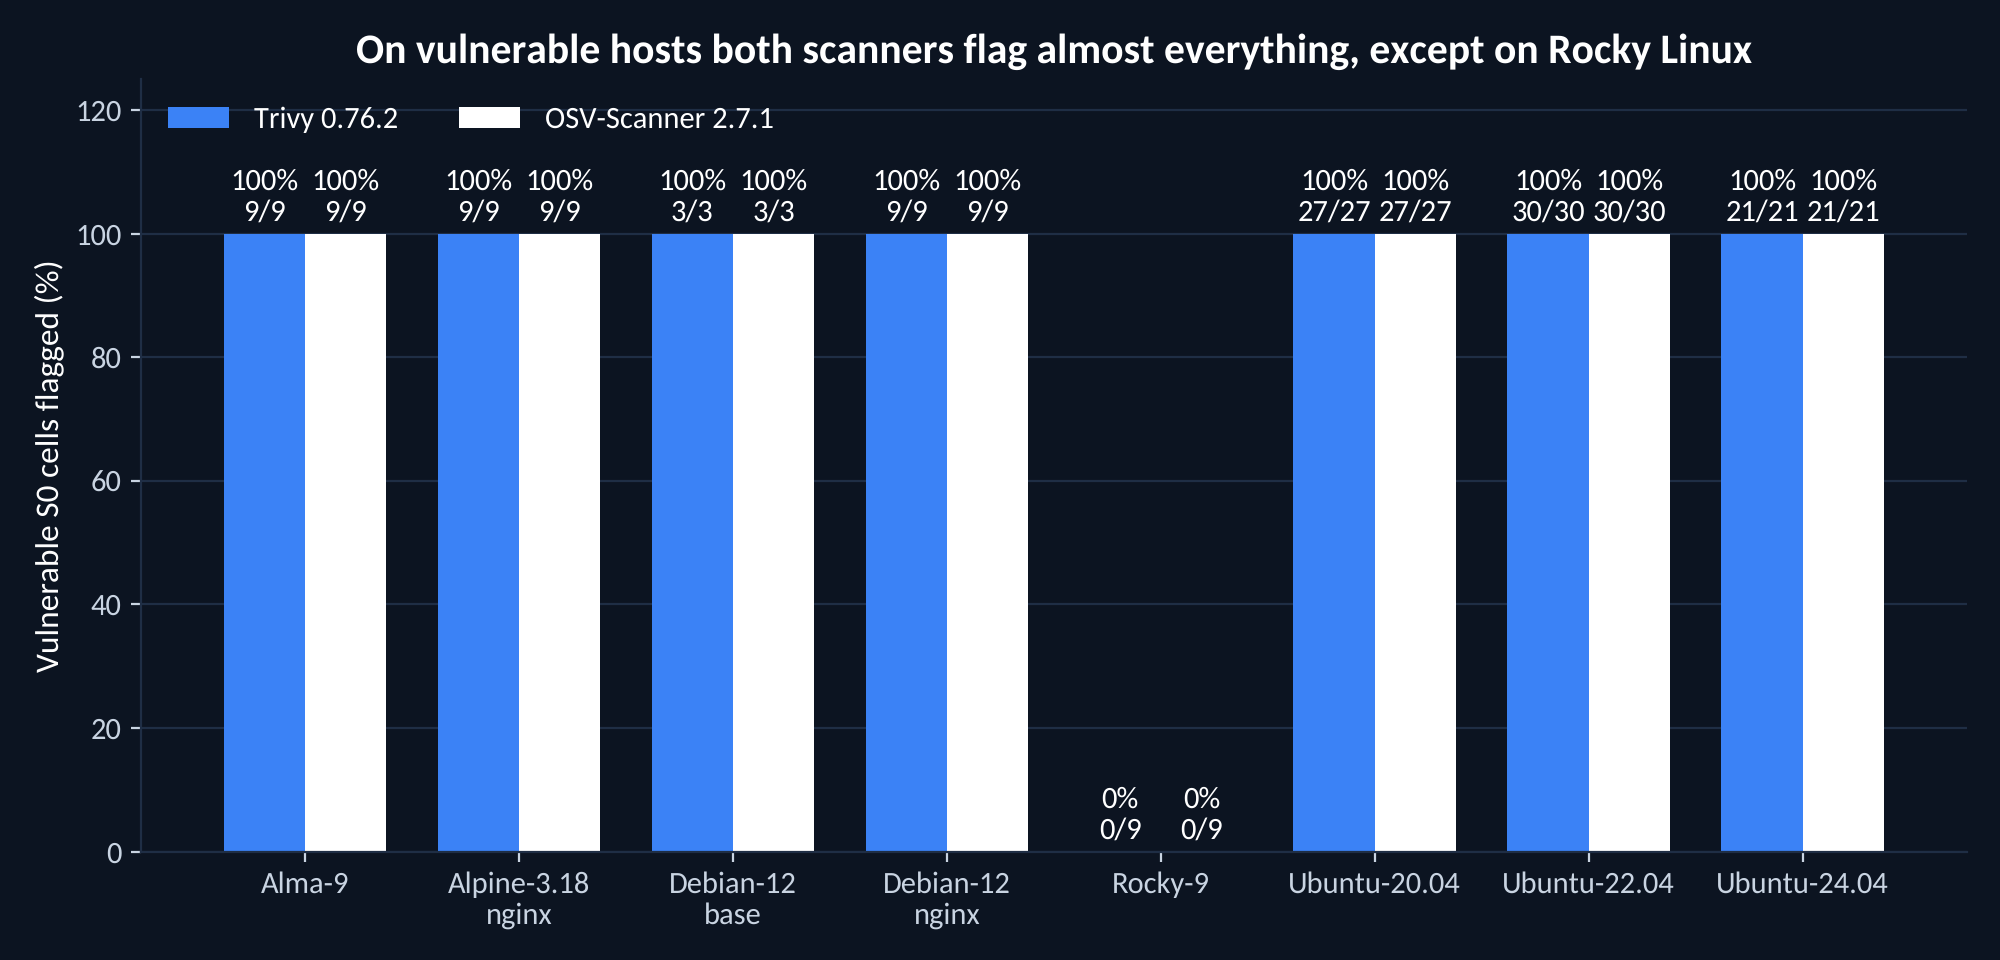
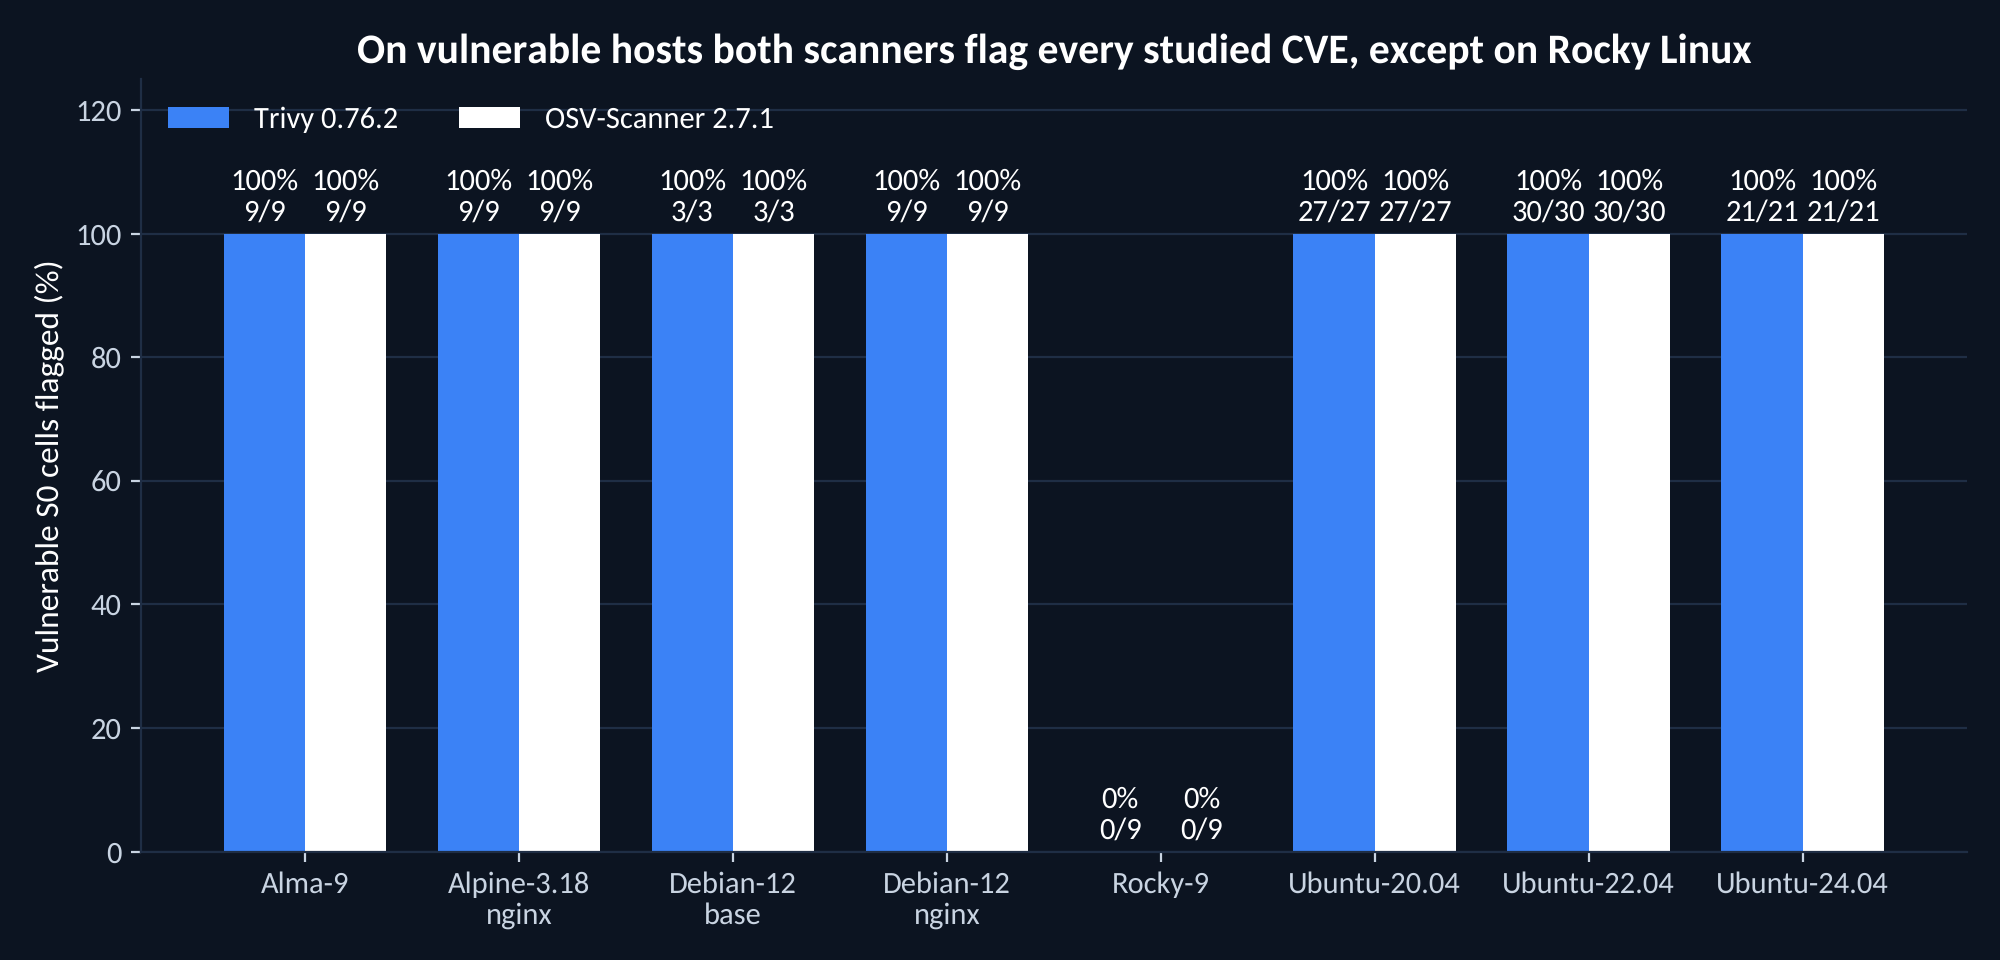
Chart titles; tables header wording

Changed region(s): [[0.186, 0.0312, 0.744, 0.0938], [0.775, 0.0312, 0.868, 0.0625]]

diff --git a/src/fixproof/report.py b/src/fixproof/report.py
@@ -72,7 +72,7 @@ def main():
     out: list[str] = ["# fixproof results", "",
                       f"{len(runs)} host builds ({len(runs) // max(1, len(repeats))} host states x {len(repeats)} repeats), "
                       f"{len(cves)} CVEs, {len(distros)} distro images, {len(unique_cells)} CVE x distro x state cells, "
-                      f"{len(cells)} verdicts. Generated by `fixproof report` from results/cells.csv.", ""]
+                      f"{len(cells)} verdicts. Written by `fixproof report` from results/cells.csv.", ""]
 
     # ---- headline: stale vulnerable code running, package already fixed
     stale = [r for r in sc_rows if r["truth"] == "vulnerable" and r["stale_only"] and r["verdict"] != "no_check"]

diff --git a/src/fixproof/charts.py b/src/fixproof/charts.py
@@ -227,7 +227,7 @@ def coverage(cells):
                                         for d in distros])
     ax.set_ylabel("Vulnerable S0 cells flagged (%)")
     ax.set_ylim(0, 125)
-    ax.set_title("On vulnerable hosts both scanners flag almost everything, except on Rocky Linux")
+    ax.set_title("On vulnerable hosts both scanners flag every studied CVE, except on Rocky Linux")
     ax.legend(loc="upper left", ncol=2)
     _style(ax)
     fig.tight_layout()

diff --git a/results/tables.md b/results/tables.md
@@ -1,6 +1,6 @@
 # fixproof results
 
-114 host builds (38 host states x 3 repeats), 22 CVEs, 8 distro images, 155 CVE x distro x state cells, 1455 verdicts. Generated by `fixproof report` from results/cells.csv.
+114 host builds (38 host states x 3 repeats), 22 CVEs, 8 distro images, 155 CVE x distro x state cells, 1455 verdicts. Written by `fixproof report` from results/cells.csv.
 
 ## Correct verdicts by state
 
